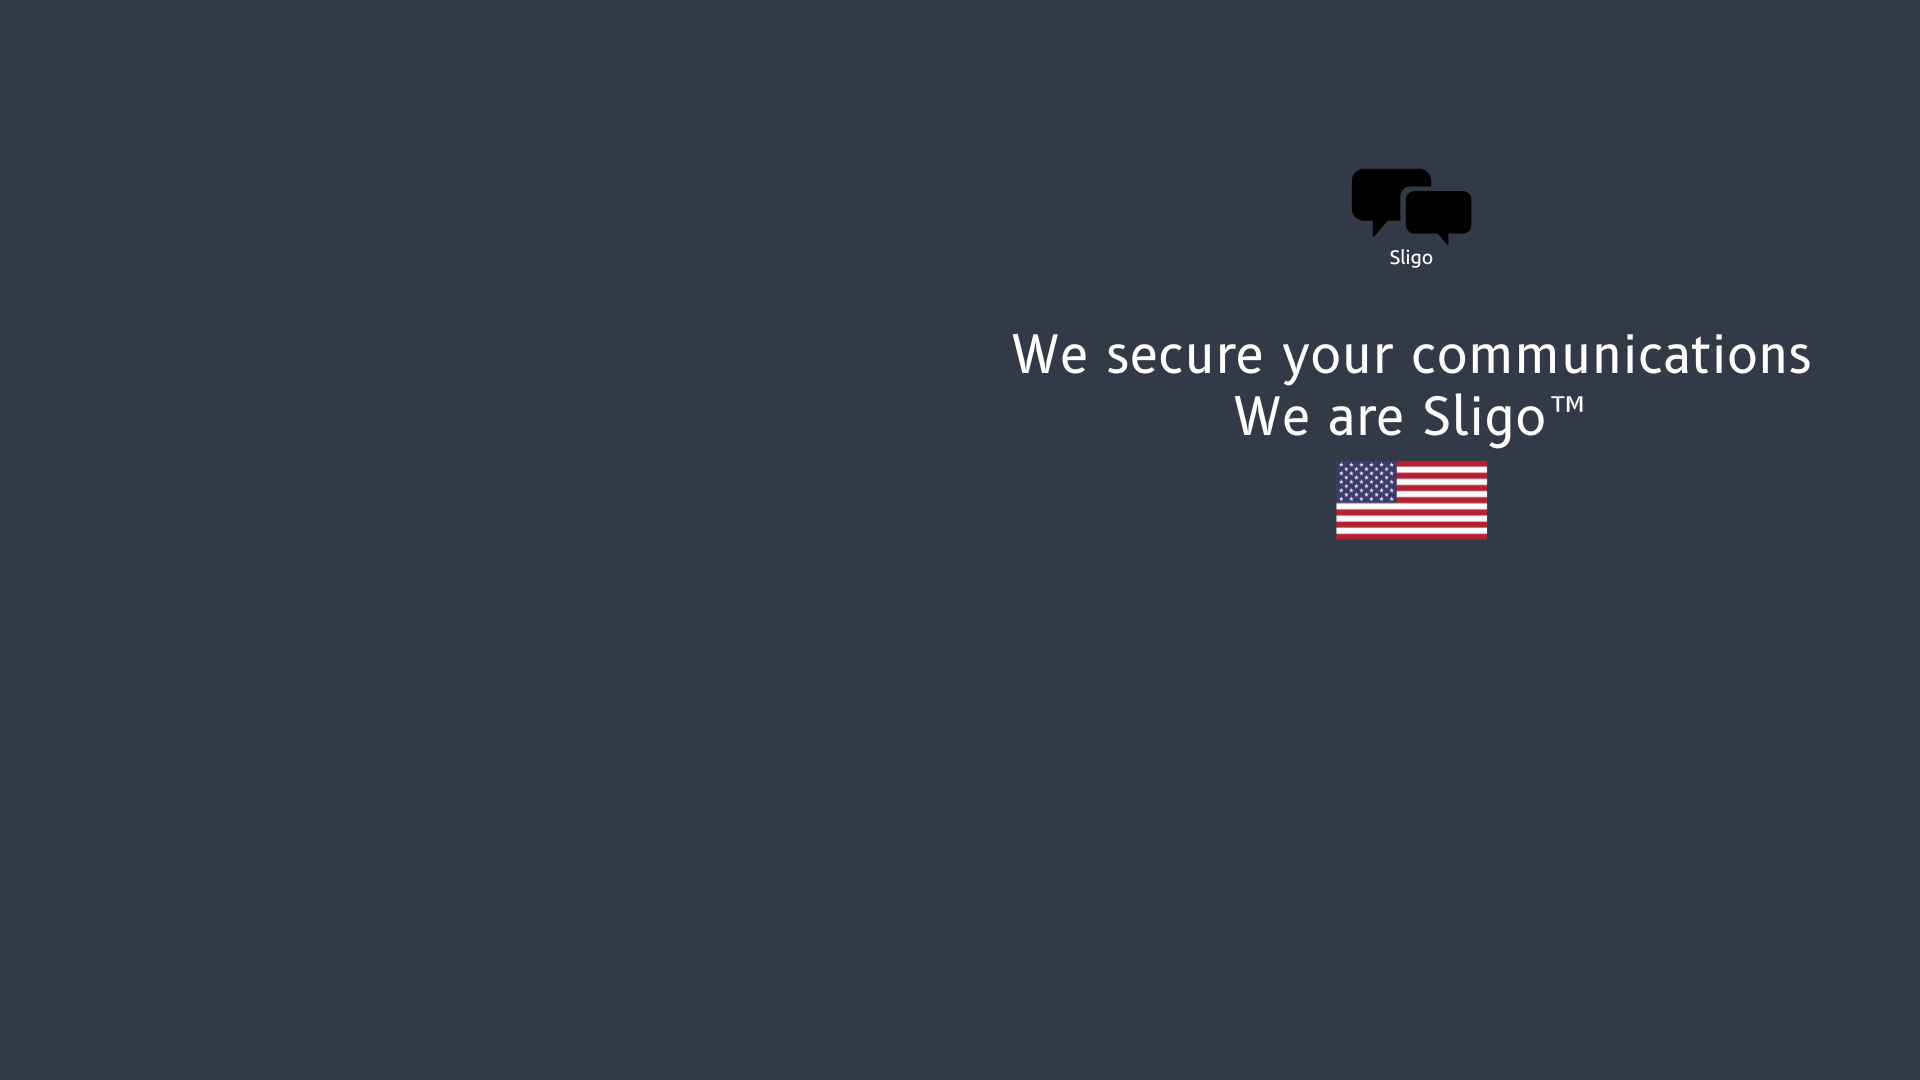
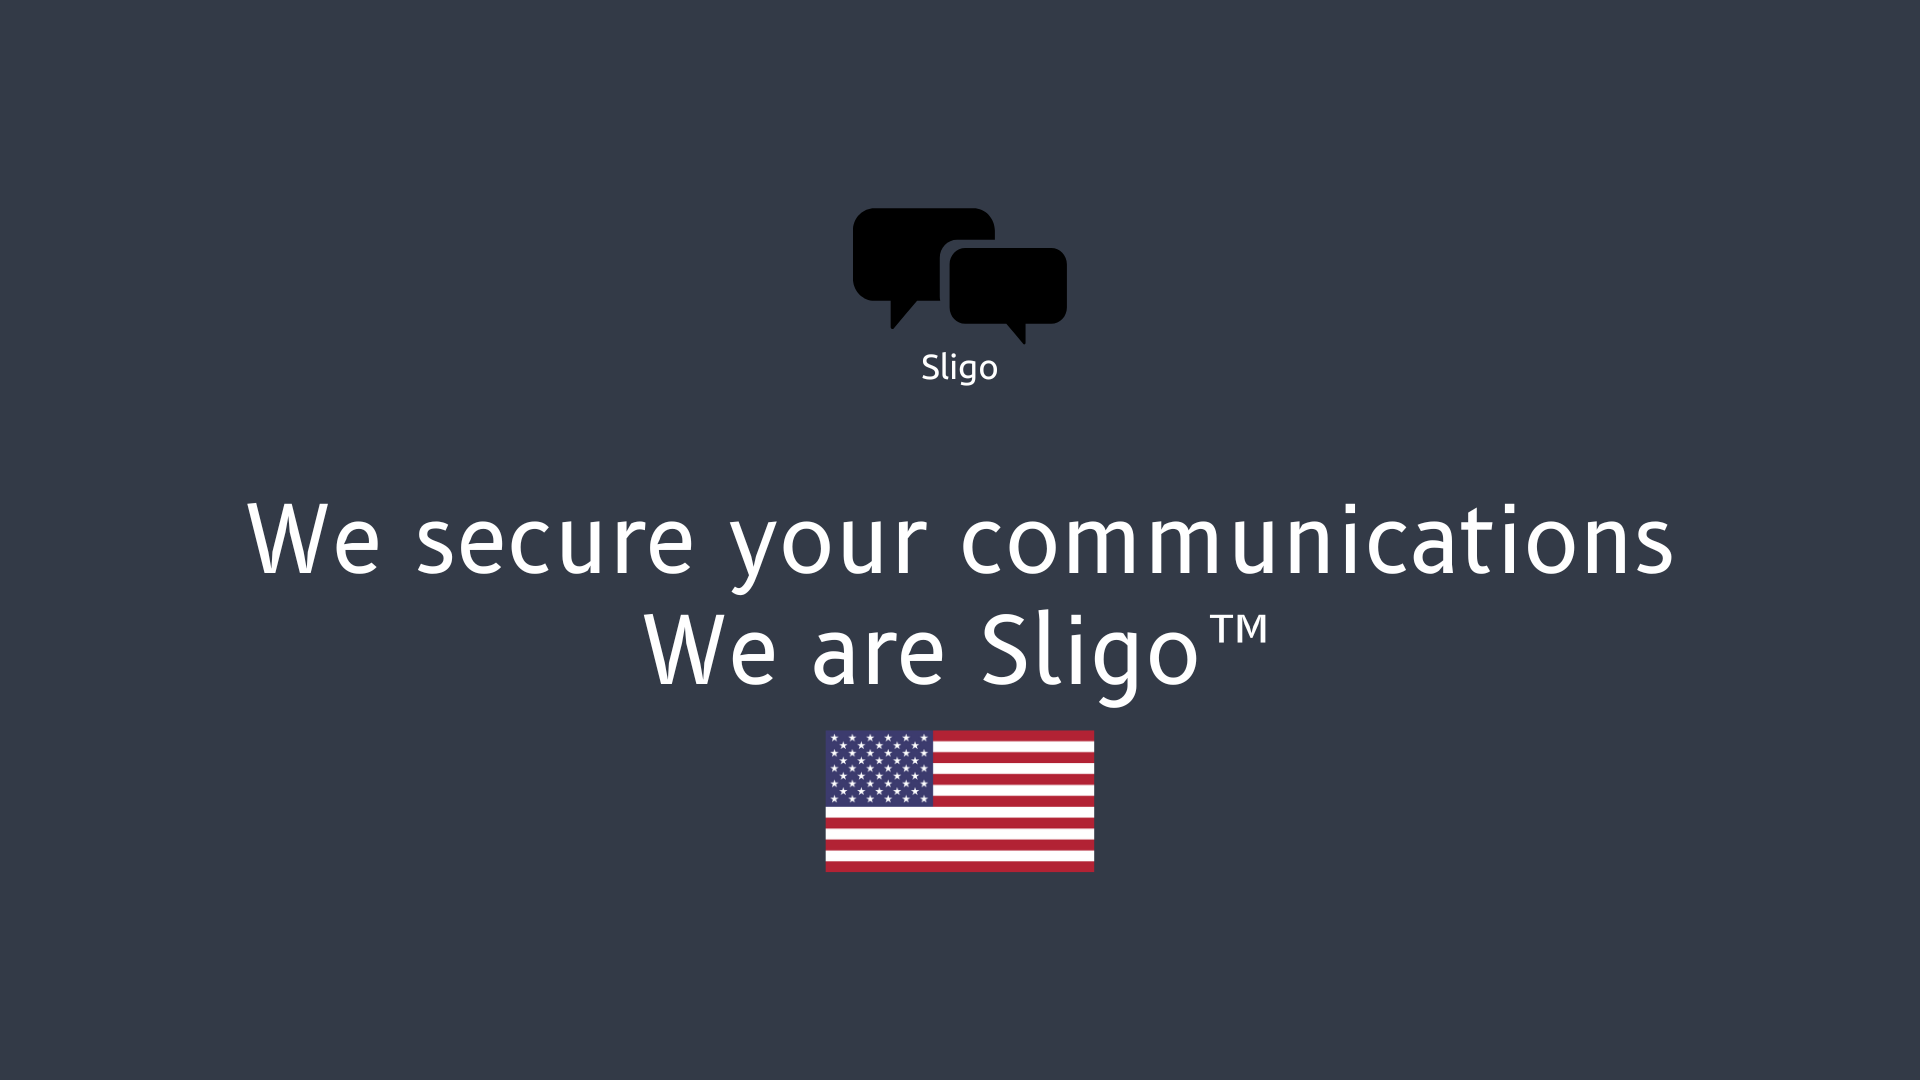
svg

Changed region(s): [[0.125, 0.1833, 0.9375, 0.825], [0.6875, 0.1528, 0.7812, 0.2444]]

diff --git a/public/css/landing.css b/public/css/landing.css
@@ -2653,7 +2653,7 @@ ul.pricing-item-features-list li {
     max-width: 100%;
     height: 612px;
     /*background-image: url(../images/illustration-section-01.svg);*/
-    background-image: url(../images/bcgrnd.png);
+    background-image: url(../images/bcgrnd.svg);
     background-repeat: no-repeat;
     background-size: auto;
     left: 50%;
